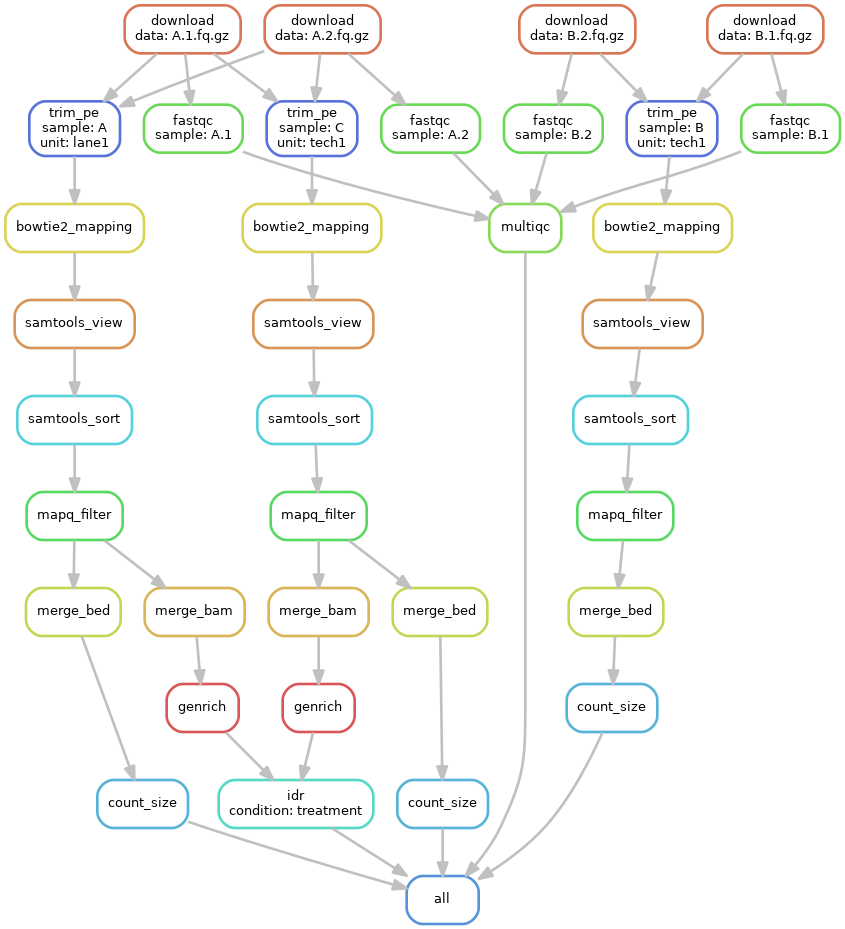
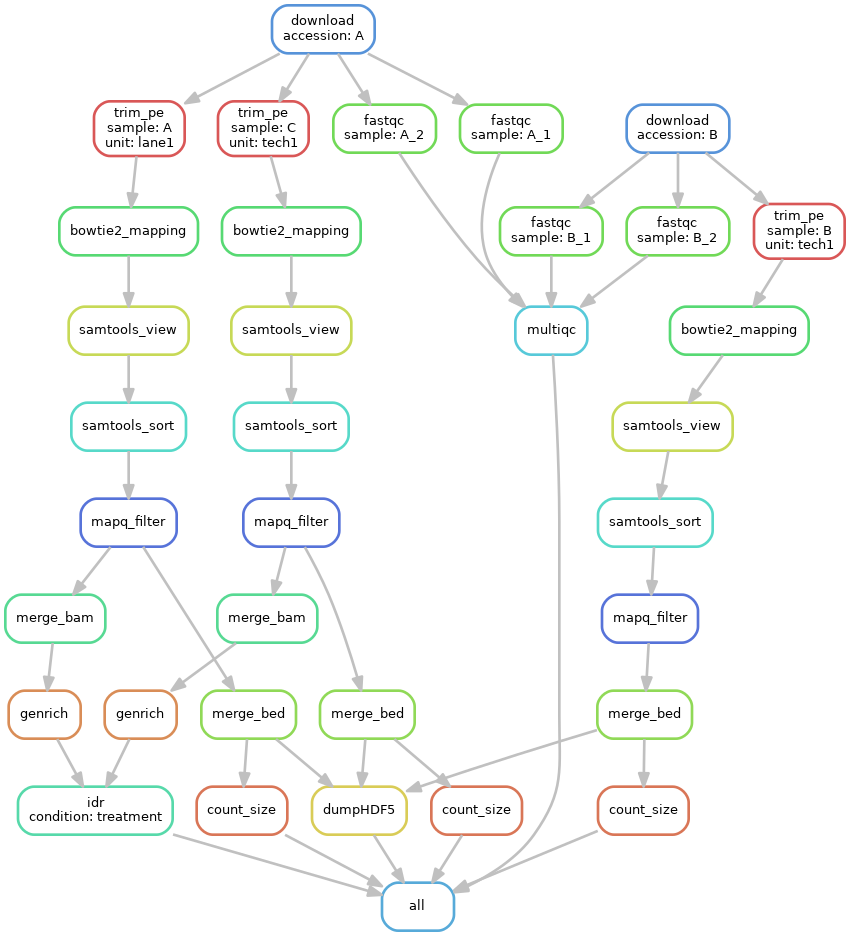
Add dumpHDF5 rule

diff --git a/scripts/numpyArrayDict.py b/scripts/numpyArrayDict.py
@@ -1,0 +1,283 @@
+#!/usr/bin/python python3.6
+#coding = utf-8
+
+import re
+import pandas as pd
+import numpy as np
+import h5py
+
+description="""
+    This module is used to store genome wide information on each base pair (i.e., depth), it employs a 0-based coordinate system (which is the default of numpy)
+    When dump into or load from this module, you should use coordinate under 1-based coordinate system to ensure it works in the right way
+"""
+
+chrKeys = {
+    "mouse": [
+        'chr1', 'chr2', 'chr3', 'chr4', 'chr5', 'chr6', 'chr7', 'chr8', 'chr9', 'chr10', 
+        'chr11', 'chr12', 'chr13', 'chr14', 'chr15', 'chr16', 'chr17', 'chr18', 'chr19', 
+        'chrX', 'chrY', 'chrM'
+    ],
+    "yeast": [
+        "chrI", "chrII", "chrIII", "chrIV", "chrIX", "chrM", "chrV", "chrVI", "chrVII",
+        "chrVIII", "chrX", "chrXI", "chrXII", "chrXIII", "chrXIV", "chrXV", "chrXVI"
+    ]
+}
+
+chrSize = {
+    "mouse": [
+        195471971, 182113224, 160039680, 156508116, 151834684, 149736546, 145441459, 129401213, 
+        124595110, 130694993, 122082543, 120129022, 120421639, 124902244, 104043685, 98207768, 
+        94987271, 90702639, 61431566, 171031299, 91744698, 16299
+    ],
+    "yeast": [
+        230218, 813184, 316620, 1531933, 439888, 85779, 576874, 270161, 1090940, 562643, 
+        745751, 666816, 1078177, 924431, 784333, 1091291, 948066
+    ]
+}
+
+class numpyArrayDict(object):
+    """
+    Standard numpyArrayDic object, 1-based
+    format:
+    {
+    'chr1': np.array([0, 1, 2, 3, 5, 66, 11])
+    'chr2': np.array([0, 1, 2, 3, 5, 66, 11])
+    ...
+    'chrM': np.array([3, 5, 6, 7, 8, 11, 23])
+    }
+    """
+    def __init__(self, specie='mouse'):
+        self.store = {}
+        self.specie = specie
+        self.chrKeys = chrKeys
+        self.chrSize = chrSize
+
+    def normalize_dict(self, depth):
+        """
+        normalize self.store to 10M reads, each row counts as one read
+        :return: normalized store
+        """
+        for i in self.store.keys():
+            self.store[i] *= 10**7/depth
+
+    def generate_dict(self):
+        """
+        Generate a dictionary containing coverage on mouse genome, [datatype: float16]
+        output dictionary:
+        key1: numpy.array[1,23,4,5,6,...]
+        key2: numpy.array[1,26,7,8,9,...]
+        """
+
+        # Generate a dictionary containing the per base depth of all chromosomes
+        for i in self.chrKeys[self.specie]:
+            self.store[i] = np.zeros(self.chrSize[self.specie][self.chrKeys[self.specie].index(i)], dtype='float32')
+
+    def fill_dict(self, chunk):
+        """
+        Fill in values in store according to the dataframe chunk
+        """
+        # Standardize the chromosome name to avoid ambiguous names of the same chromosome, i.e., chr1, Chr1, 1...
+        chunk['chr'] = chunk.apply(lambda row: "chr" + re.sub(r"chr", "", row['chr'], flags=re.I), axis=1)
+        
+        def func(chr, start, end, depth):
+            try:
+                self.store[chr][(start-1):(end)] += depth
+                return 0
+            except KeyError:
+                print("KeyError: %s" %(chr))
+                return 0
+        vfunc = np.vectorize(func, otypes=[int])
+        vfunc(chunk['chr'].values, chunk['start'].values, chunk['end'].values, chunk['depth'].values)
+
+    def create_dict_fromfile(self, filename, chunksize=10**6):
+        """
+        Create dictionary according to the input file
+        :param filename:
+        format: chr start end depth (separated by '\t')
+        :return: self
+        """
+        self.generate_dict()
+        chunks = pd.read_csv(filename, header=None, sep='\t', chunksize=chunksize, comment="#", usecols=[0,1,2,3], 
+                names=['chr', 'start', 'end', 'depth'], dtype={'chr':str, 'start':int, 'end':int, 'depth':float})
+        for chunk in chunks:
+            self.fill_dict(chunk)
+        return self
+
+    def create_dict_fromDF(self, dataframe):
+        """
+        Create dictionary according to the input pandas dataframe
+        :param dataframe:
+        format: chr start end depth
+        :return: self
+        """
+        # format dataframe
+        dataframe.columns = ['chr', 'start', 'end', 'depth']
+        dataframe.astype({'chr':str, 'start':int, 'end':int, 'depth':float})
+
+        # dump into numpy array
+        self.generate_dict()
+        self.fill_dict(dataframe)
+        return self
+
+    def get_dict(self):
+        """
+        Return whole dictionary
+        """
+        return self.store
+
+    def get_range(self, chr, start, end):
+        """
+        Return piece of genome according to given start, end coordinate
+        :param chr:
+        :param start:
+        :param end:
+        :return: numpy array
+        """
+        start = start-1
+        end = end
+        if (start<0 or end>self.chrSize[self.specie][chrKeys[self.specie].index(chr)]):
+            raise Exception('Index out of chromosome bound!')
+        return self.store[chr][start:end]
+
+    def get_point(self, chr, index):
+        index = index-1
+        if (index<0 or index>=self.chrSize[self.specie][chrKeys[self.specie].index(chr)]):
+            raise Exception('Index out of chromosome bound!')
+        return self.store[chr][index]
+
+    def get_size(self, chr):
+        return self.chrSize[self.specie][self.chrKeys[self.specie].index(chr)]
+
+    def dump_hdf5(self, hdf5, sourceName):
+        """
+        Save numpy dictionary to hdf5 file
+        :param hdf5:
+        :return:
+        """
+        file = h5py.File(hdf5)
+
+        # check if all keys exist in hdf file, create if not
+        if not (self.specie in file.keys()):
+            file.create_group(self.specie)
+        for i in self.chrKeys[self.specie]:
+            if not (i in file[self.specie].keys()):
+                file[self.specie].create_group(i)
+
+        # dump numpy array dictionary into hdf5
+        for i in self.chrKeys[self.specie]:
+            file['/%s/%s' %(self.specie, i)].create_dataset(sourceName, data=self.store[i], compression='gzip')
+
+    # deprecated
+    def add_dict_fromfile(self, filename, addHeader=True, chunksize=10**6):
+        chunks = pd.read_csv(filename, header=None, sep='\t', chunksize=chunksize, comment="#", usecols=[0,1,2,3])
+        for chunk in chunks:
+            self.fill_dict(chunk, addHeader=addHeader)
+
+class hdf5(object):
+    """
+    handle hdf5 file containing numpy array dictionary
+    """
+    def __init__(self, hdf5, specie='mouse'):
+        self.hdf5 = h5py.File(hdf5)
+        self.specie = specie
+        self.chrKeys = chrKeys
+        self.chrSize = chrSize
+
+    def get_point(self, sourceName, chr, coor):
+        zero_based_coor = coor - 1
+        if (zero_based_coor<0 or zero_based_coor>=self.chrSize[self.specie][chrKeys[self.specie].index(chr)]):
+            raise Exception('Index out of chromosome bound!')
+        returnValue = self.hdf5['/%s/%s/%s' %(self.specie, chr, sourceName)][zero_based_coor]
+        return returnValue
+
+    def get_slice(self, sourceName, chr, start, end):
+        start = start-1
+        end = end
+        if (start<0 or end>self.chrSize[self.specie][chrKeys[self.specie].index(chr)]):
+            raise Exception('Index out of chromosome bound!')
+        returnArray = self.hdf5['/%s/%s/%s' %(self.specie, chr, sourceName)][start:end]
+        return returnArray
+
+    def load_numpyArrayDict(self, sourceName):
+        """
+        Load entire numpyArrayDict class from hdf5 file
+        :param sourceName:
+        :return:
+        """
+        store = {}
+        for i in self.chrKeys[self.specie]:
+            store[i] = self.hdf5['/%s/%s/%s' %(self.specie, i, sourceName)][:]
+
+        returnClass = numpyArrayDict(specie=self.specie)
+        returnClass.store = store
+        return returnClass
+
+    def list_source(self):
+        """
+        List names of all source in hdf5 file
+        :return:
+        """
+        source_list = []
+        for i in self.hdf5['/%s/%s' %(self.specie, self.chrKeys[self.specie][0])].keys():
+            source_list.append(i)
+        return source_list
+
+    def delete_source(self, sourceName):
+        """
+        Delete dataset with sourceName
+        :return:
+        """
+        try:
+            for i in self.chrKeys[self.specie]:
+                del self.hdf5['/%s/%s/%s' %(self.specie, i, sourceName)]
+        except KeyError:
+            print("%s doesn't exist in hdf5 file!" %(sourceName))
+    
+    def close(self):
+        self.hdf5.close()
+
+def main():
+    pass
+
+
+def find_nearest(chr, coor, hdf5, source,specie="yeast", strand="+"):
+    range = 0
+    sum = 0
+
+    while(sum==0):
+        range += 1000
+        start = coor-range
+        end = coor+range
+        try:
+            reg = hdf5.get_slice(source, chr, start, end)  #Extract +/- 1000 bp region around dyad to get nearest reference dyad locations
+        except:
+            if(start<=0):
+                start = 1
+                reg = hdf5.get_slice(source, chr, start, end)
+                append_size = 2*range + 1 - reg.size
+                reg = np.append(np.zeros(append_size), reg)
+            else:
+                end = numpyArrayDict(specie=specie).get_size(chr)
+                reg = hdf5.get_slice(source, chr, start, end)
+                append_size = 2*range + 1 - reg.size
+                reg = np.append(reg, np.zeros(append_size))
+            
+        sum = reg.sum()
+
+    #Get the relative positions of reference dyads
+    index_dyad = np.where(reg > 0)[0]  
+    #Compute distance to each reference dyads in region
+    distance = index_dyad - (reg.size - range - 1)
+    #Get the nearest reference dyad
+    if (strand=="+"):
+        distance = distance[distance>0]
+    elif (strand=="-"):
+        distance = distance[distance<0]
+    min_dist_index = np.argmin(np.abs(distance))
+    min_dist_dyad = coor + distance[min_dist_index]
+
+    return min_dist_dyad
+
+
+if __name__ == '__main__':
+    main()

diff --git a/scripts/dumpHDF5.smk.py b/scripts/dumpHDF5.smk.py
@@ -1,0 +1,37 @@
+#!/usr/bin/python3.6
+
+import sys, os, re
+import numpyArrayDict as nad
+
+description = """dumpHDF5_smk.py
+
+snakemake version of dumpHDF5_smk.py
+dump the 1-based bedgraph file into the HDF5 database
+
+Example:
+    rule dump_HDF5:
+        input:
+            "
+
+@Copyright 2020, Jianyu Yang, Southern Medical University
+"""
+
+# Read in snakemake parameters
+filenames = snakemake.input.samples
+database = snakemake.output[0]
+specie = snakemake.params.specie
+collect = snakemake.params.collect
+collectDatabase = snakemake.params.collectDatabase
+
+# extract source name
+pattern = re.compile(r"output/mapped/([A-Za-z0-9_]+).merged.coverage.1b.bg")
+sources = [pattern.match(f).groups()[0] + "_coverage" for f in filenames]
+
+index = 0
+for i in filenames:
+    currNad = nad.numpyArrayDict(specie=specie).create_dict_fromfile(i)
+    currNad.dump_hdf5(database, sources[index])
+    if collect:
+        currNad.dump_hdf5(collectDatabase, sources[index])
+    index += 1
+
